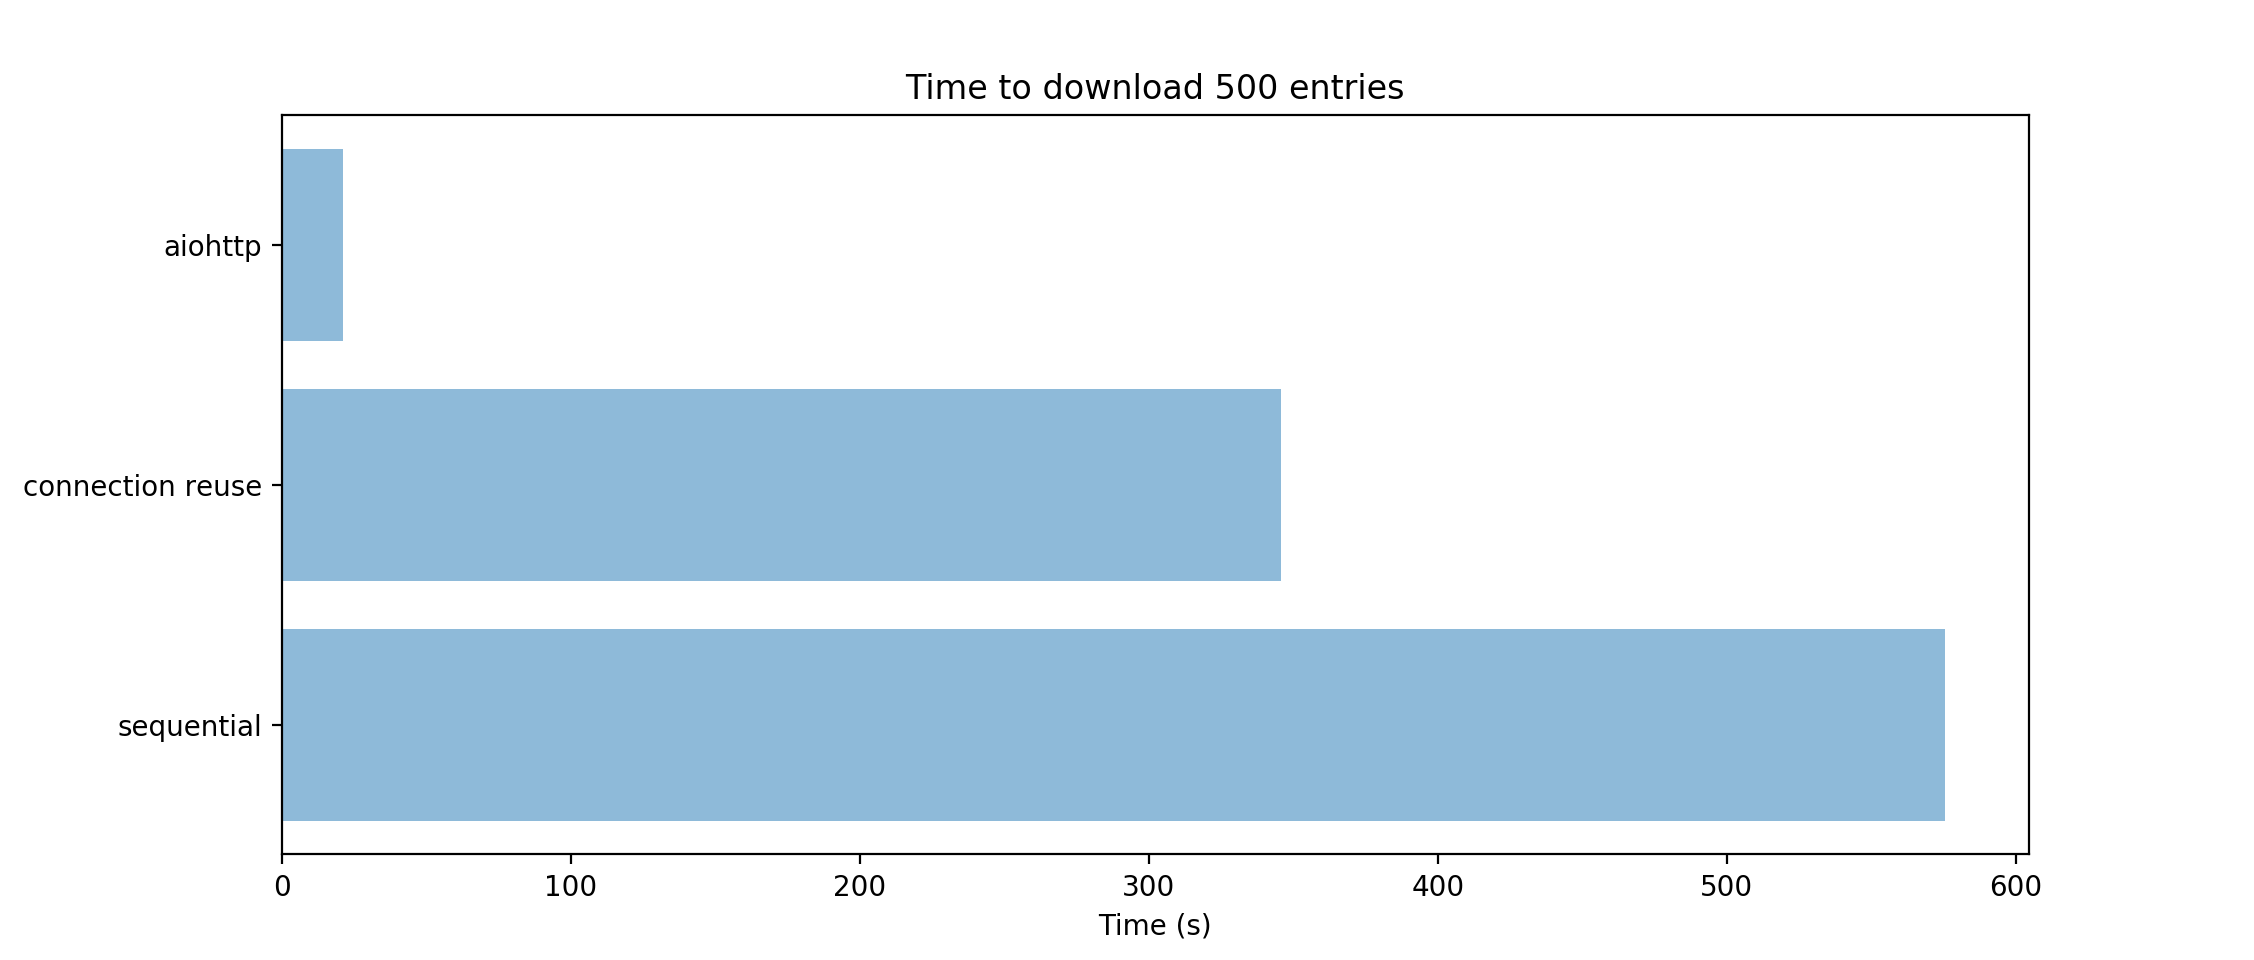
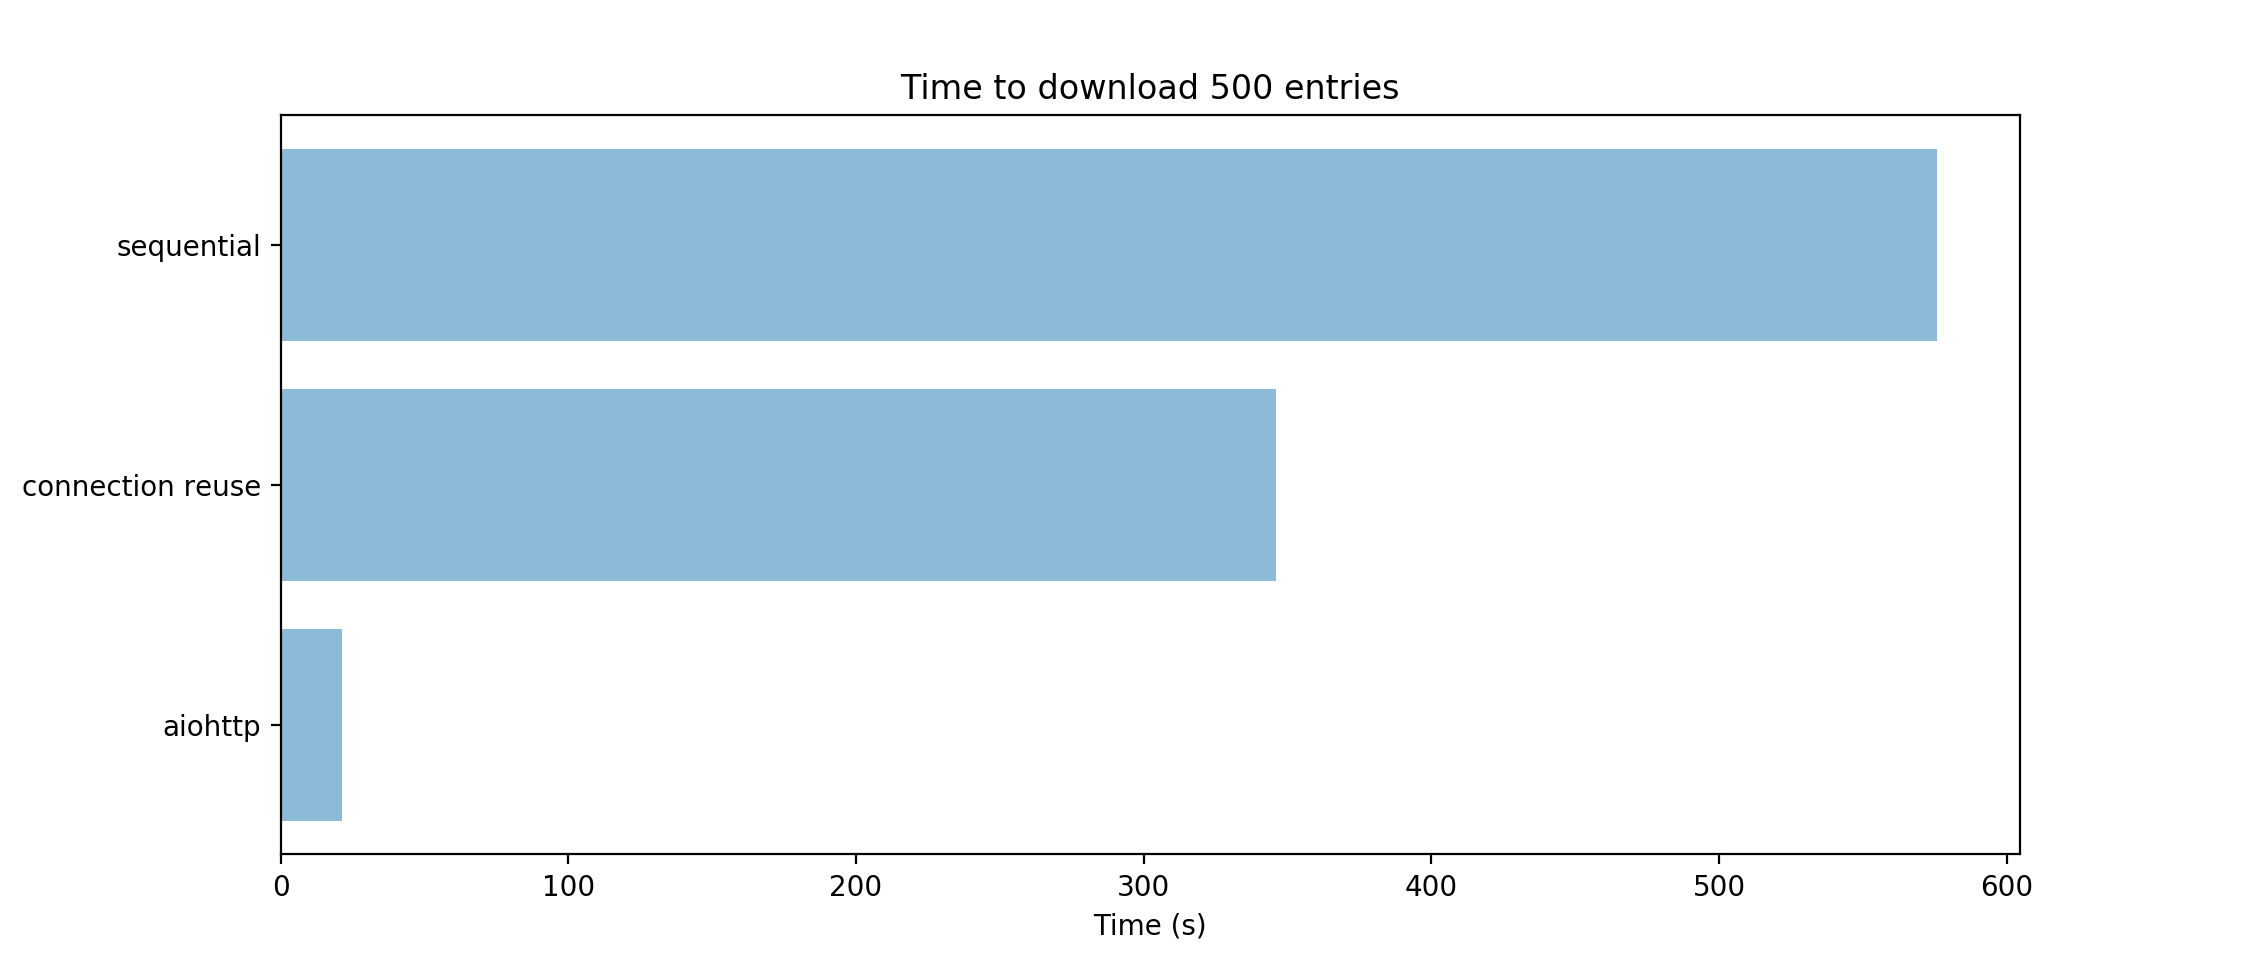
Reorder profiling graph
It's more appropriate to align top-bottom with early-recent. Helps the
reader understand, I think.

I've also rewritten the data handling because dicts aren't reliably sorted.
Suspect it's Python-3.6 specific that the keys and values are aligned,
and that's not guaranteed by the language yet.

diff --git a/profiling-graph.py b/profiling-graph.py
@@ -6,10 +6,11 @@ Documenting an unscientific performance test (the content of 'tests.py').
 """
 
 results = {"sequential": 575.622, "connection reuse": 345.897, "aiohttp": 21.304}
+methods, times = zip(*sorted(results.items()))
+num_results = np.arange(len(methods))
 
-y_pos = np.arange(len(results))
-plt.barh(y_pos, [time for _, time in results.items()], align='center', alpha=0.5)
-plt.yticks(y_pos, [method for method, _ in results.items()])
+plt.barh(num_results, times, align='center', alpha=0.5)
+plt.yticks(num_results, methods)
 plt.xlabel("Time (s)")
 plt.title("Time to download 500 entries")
 
